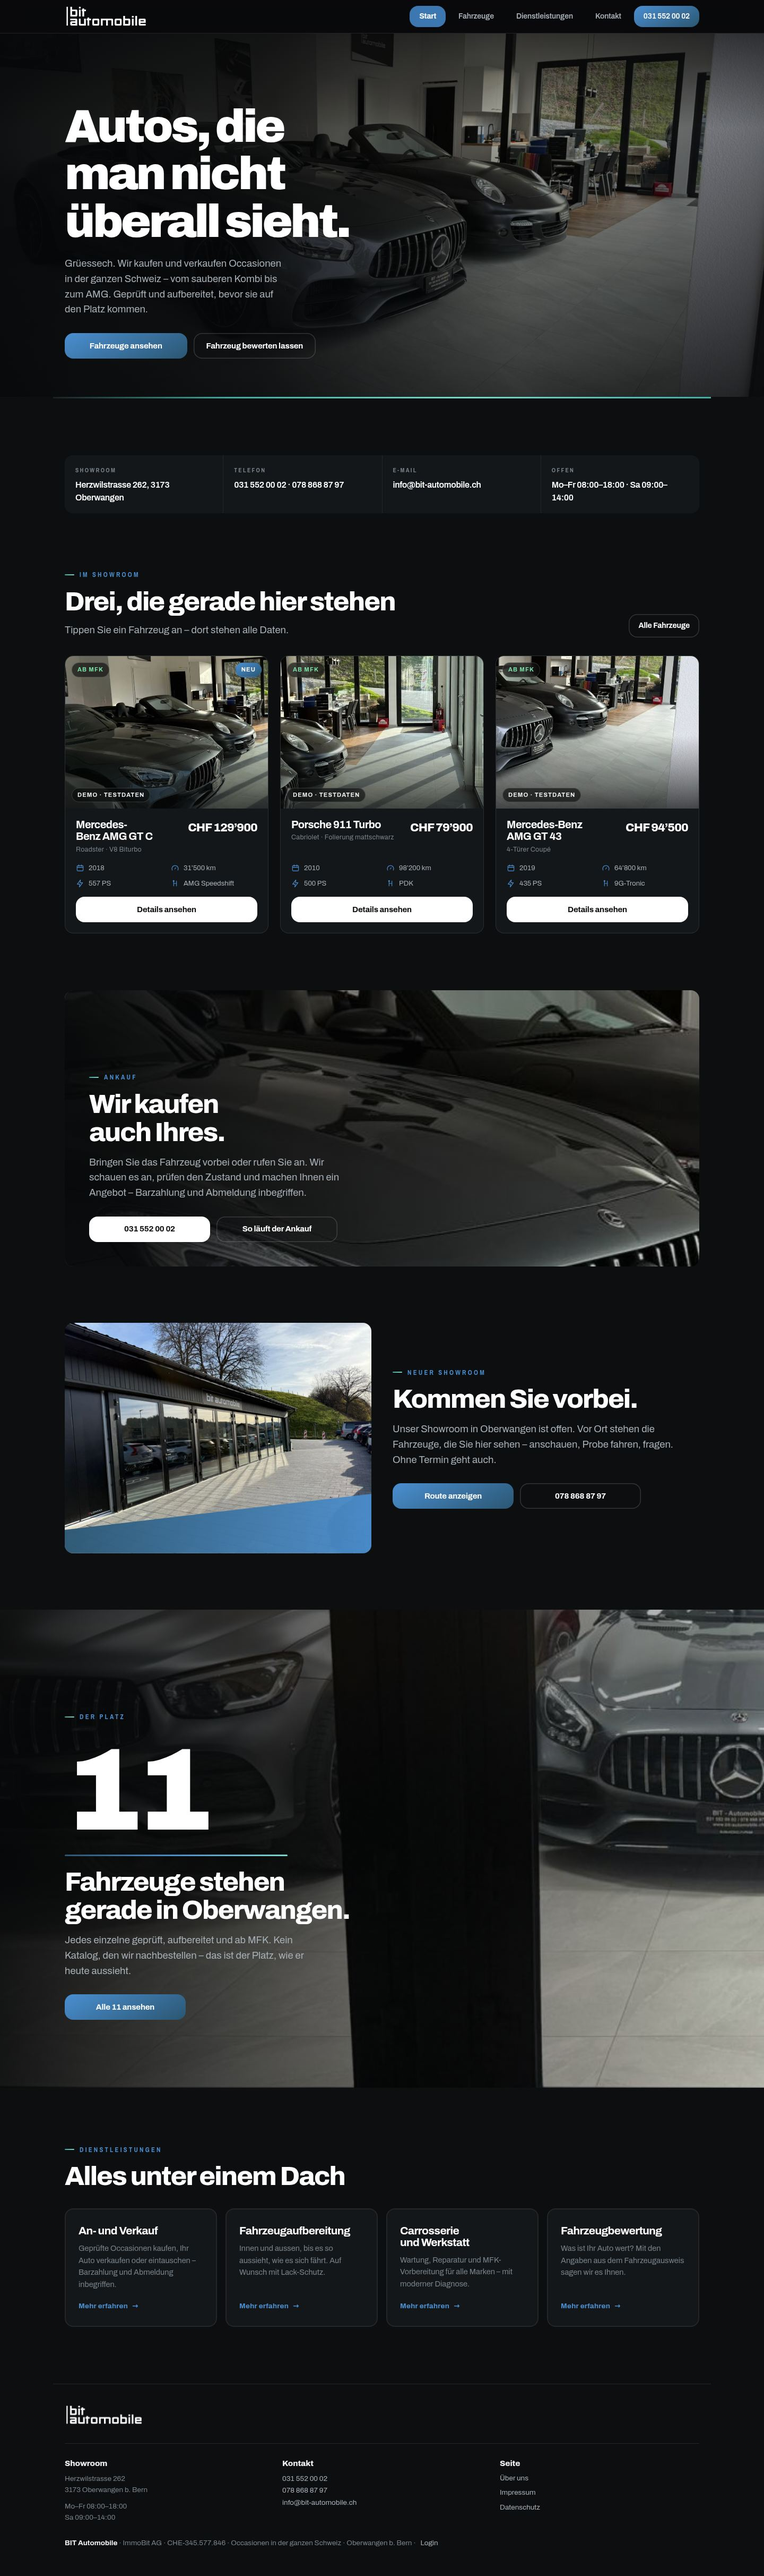
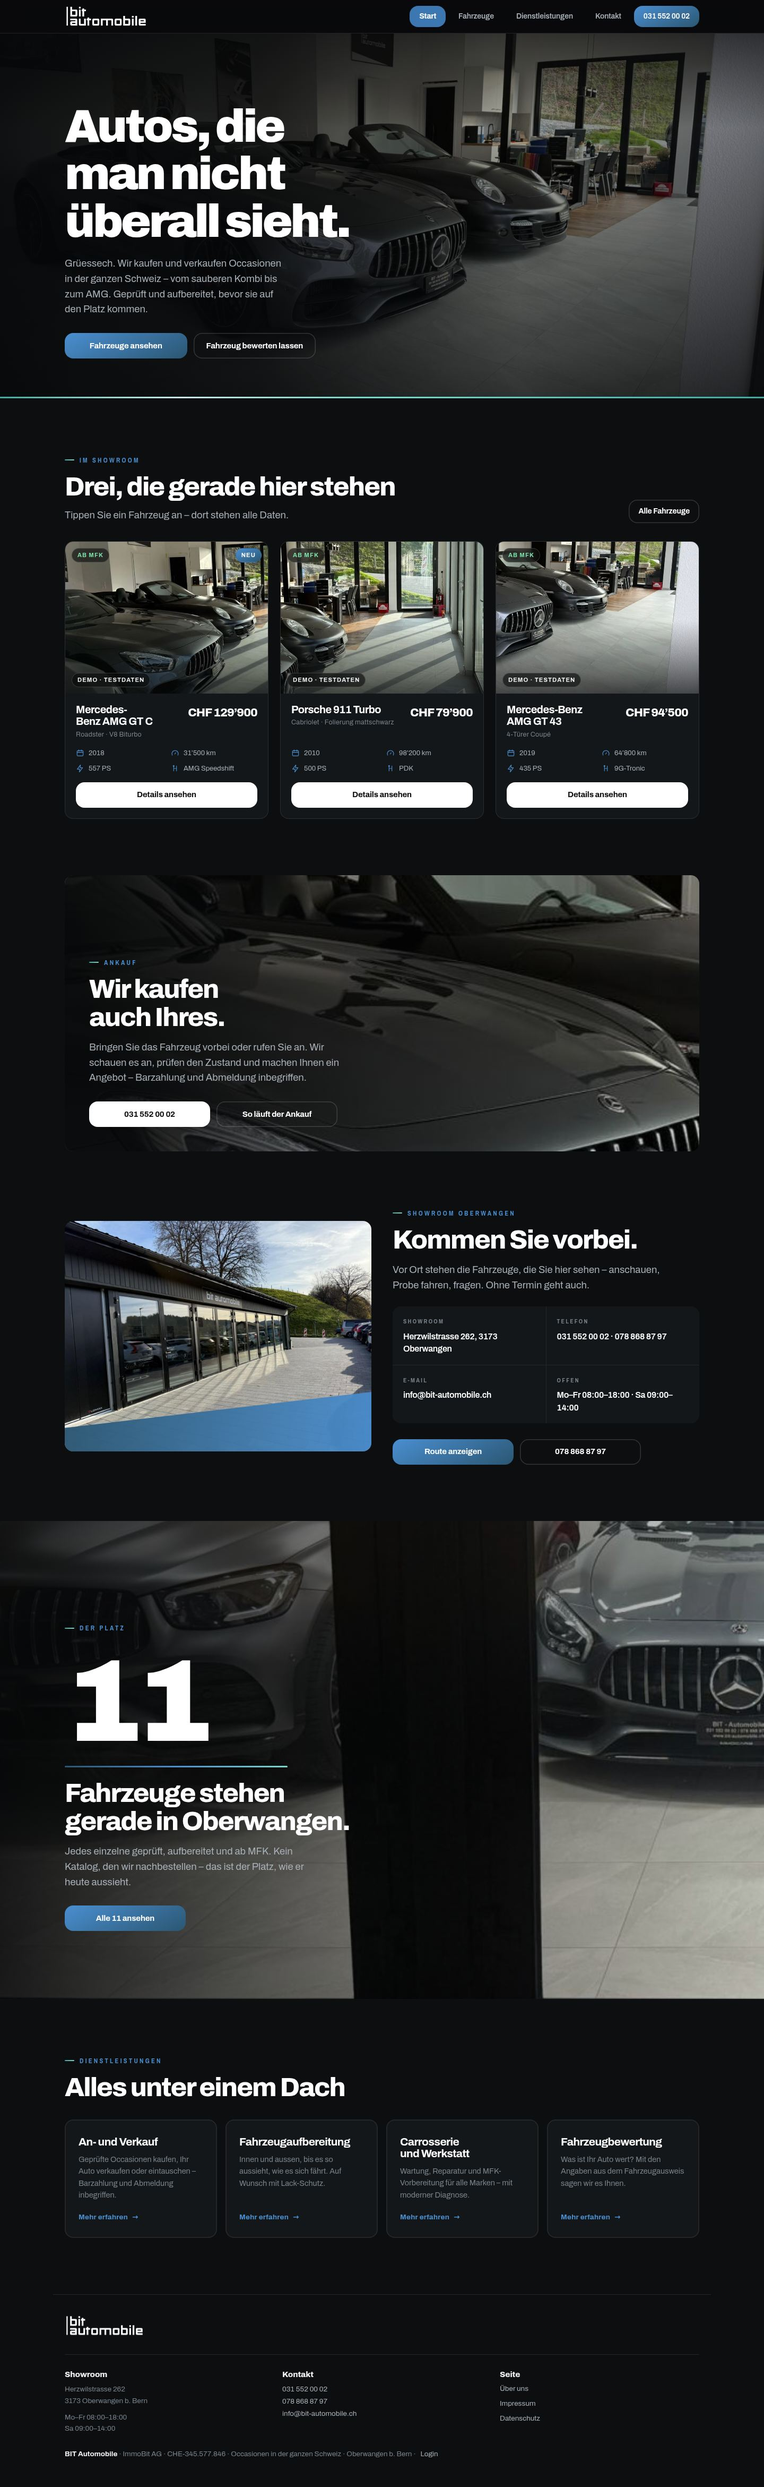
Startseite: kein Info-Balken, Linie randlos, Foto wischt weg, Maus-bit kleiner und blau
- Fakten (Adresse, Telefon, E-Mail, Zeiten) nicht mehr als Balken unter
  dem Titelbild, sondern einmal im Abschnitt «Kommen Sie vorbei»
- Aare-Linie unter dem Titelbild geht von Rand zu Rand, ohne Luecke
- «Der Platz»: oberes Foto wischt beim Scrollen schraeg weg, mit Kante
  (wie im Entwurf)
- Maus: «bit» 22px in BIT-Blau statt 46px weiss
- Browser-Test prueft das alles (202 Pruefungen)

Claude-Session: https://claude.ai/code/session_01FS9uVmt9oSwbhQpEkDp6nt

diff --git a/theme/bit-automobile/tests/e2e.js b/theme/bit-automobile/tests/e2e.js
@@ -200,12 +200,33 @@ const PAGES = [
   await ap.waitForTimeout(900);
   const notIn = await ap.evaluate(() => [...document.querySelectorAll('[data-rv]')].filter((e) => e.offsetParent && !e.classList.contains('is-in')).length);
   t('Animation: alle Blöcke nach dem Scrollen sichtbar', notIn === 0, notIn + ' nicht eingeblendet');
+  // Linie unter dem Titelbild: von Rand zu Rand
+  await ap.evaluate(() => window.scrollTo(0, 0));
+  const flowW = await ap.evaluate(() => { const f = document.querySelector('.flowwrap .bit-flow'); return f ? [Math.round(f.getBoundingClientRect().left), Math.round(f.getBoundingClientRect().width), document.documentElement.clientWidth] : null; });
+  t('Linie: geht über die ganze Breite', !!flowW && flowW[0] === 0 && flowW[1] === flowW[2], JSON.stringify(flowW));
+  // Kein Info-Balken direkt unter dem Titelbild; Adresse/Telefon/Zeiten stehen beim Showroom
+  t('Start: kein Balken unter dem Titelbild', await ap.evaluate(() => !document.querySelector('.hero + .flowwrap + .sec .bit-facts')));
+  t('Start: Adresse/Telefon/Zeiten beim Showroom', (await ap.locator('.split .visit-facts .bit-facts').count()) === 1);
+  t('Start: nur einmal «Showroom»-Fakten', (await ap.locator('main .bit-facts').count()) === 1);
+  // Der Platz: oberes Foto wischt beim Scrollen weg
+  const wipe = await ap.evaluate(async () => {
+    const sec = document.querySelector('.platz'); const top = sec.getBoundingClientRect().top + window.scrollY;
+    const span = sec.offsetHeight - window.innerHeight;
+    window.scrollTo(0, top + span * 0.35); await new Promise((r) => setTimeout(r, 300));
+    const w = document.querySelector('[data-wipe]'); const e = document.querySelector('[data-edge]');
+    return { clip: w.style.clipPath, edge: getComputedStyle(e).opacity };
+  });
+  t('Der Platz: Foto wischt beim Scrollen weg', /polygon/.test(wipe.clip) && !/100% 100%, 0(px)? 100%/.test(wipe.clip), wipe.clip);
+  await ap.waitForTimeout(300);
+  await ap.screenshot({ path: path.join(OUT, '28-der-platz-foto-wischt.jpg'), type: 'jpeg', quality: 80 });
   await ap.evaluate(() => window.scrollTo(0, 0));
   await ap.waitForTimeout(400);
   for (let i = 0; i < 24; i++) { await ap.mouse.move(500 + i * 18, 300 + i * 6); await ap.waitForTimeout(16); }
   await ap.waitForTimeout(250);
-  const follow = await ap.evaluate(() => { const m = document.querySelector('.bit-follow'); return m ? { on: m.classList.contains('on'), t: m.style.transform, src: m.src } : null; });
-  t('Maus: «bit» folgt dem Zeiger', !!follow && follow.on && /bit-mark\.png/.test(follow.src) && follow.t.includes('translate3d'), JSON.stringify(follow));
+  const follow = await ap.evaluate(() => { const m = document.querySelector('.bit-follow'); if (!m) return null; const cs = getComputedStyle(m); return { on: m.classList.contains('on'), t: m.style.transform, mark: m.style.getPropertyValue('--mark'), w: Math.round(m.getBoundingClientRect().width), bg: cs.backgroundColor }; });
+  t('Maus: «bit» folgt dem Zeiger', !!follow && follow.on && /bit-mark\.png/.test(follow.mark) && follow.t.includes('translate3d'), JSON.stringify(follow));
+  t('Maus: «bit» kleiner als der Zeiger (≤ 24px)', !!follow && follow.w > 0 && follow.w <= 24, follow && follow.w + 'px');
+  t('Maus: «bit» in BIT-Blau', !!follow && follow.bg === 'rgb(74, 143, 209)', follow && follow.bg);
   await ap.screenshot({ path: path.join(OUT, '25-animation-maus-bit.jpg'), type: 'jpeg', quality: 80, clip: { x: 300, y: 150, width: 900, height: 420 } });
   // Den Seitenwechsel fuer den Test anhalten (Listener nach dem der Seite), dann die Linie pruefen.
   await ap.evaluate(() => document.addEventListener('click', (e) => { if (e.target.closest('a')) e.preventDefault(); }));

diff --git a/theme/bit-automobile/assets/css/site.css b/theme/bit-automobile/assets/css/site.css
@@ -26,8 +26,13 @@
 .sec--top{padding-bottom:0}
 .sec--flat{padding-top:0}
 .intro{max-width:var(--maxw);margin-inline:auto;padding:clamp(46px,6vw,86px) var(--gut) 0}
-.flowwrap{max-width:var(--maxw);margin-inline:auto;padding-inline:var(--gut);margin-top:28px;overflow:hidden}
+/* Die Aare-Linie geht von Rand zu Rand, ohne Luecke; ein heller Schimmer fliesst darueber. */
+.flowwrap{margin-top:28px;overflow:hidden}
 .flowwrap--flush{margin-top:0}
+.flowwrap .bit-flow{width:100%;margin:0;border-radius:0;
+  background:linear-gradient(90deg,var(--aare),var(--aare-2) 50%,var(--aare))}
+.flowwrap .bit-flow i{background:linear-gradient(90deg,transparent 0%,rgba(255,255,255,.7) 8%,transparent 16%,
+  transparent 50%,rgba(255,255,255,.7) 58%,transparent 66%,transparent 100%)}
 .sec-head{display:flex;align-items:flex-end;justify-content:space-between;gap:22px;margin-bottom:34px;flex-wrap:wrap}
 .sec-head--stack{display:block;margin-bottom:34px}
 
@@ -68,6 +73,8 @@
 /* ---------- Bild + Text ---------- */
 .split{display:grid;grid-template-columns:repeat(auto-fit,minmax(min(320px,100%),1fr));gap:40px;align-items:center}
 .split--top{align-items:start}
+.visit-facts{margin-top:26px}
+@media (max-width:520px){.split .visit-facts .bit-facts{grid-template-columns:1fr}}
 .slant{position:relative;overflow:hidden;border-radius:var(--r)}
 .slant img{width:100%;display:block}
 .slant span{position:absolute;left:0;right:0;bottom:0;height:30%;pointer-events:none;
@@ -79,6 +86,11 @@
 .platz .stick{position:sticky;top:0;height:100vh;overflow:hidden}
 .platz img{position:absolute;inset:0;width:100%;height:100%;object-fit:cover}
 .platz .shade{position:absolute;inset:0;background:linear-gradient(90deg,rgba(6,7,8,.92) 0%,rgba(6,7,8,.6) 42%,rgba(6,7,8,.2) 100%)}
+/* Oberes Foto wischt beim Scrollen schraeg weg (wie im Entwurf), die Linie laeuft an der Kante mit */
+.platz .wipe{position:absolute;inset:0;clip-path:polygon(0 0,100% 0,100% 100%,0 100%);will-change:clip-path}
+.platz .wipe .shade{background:linear-gradient(90deg,rgba(6,7,8,.9) 0%,rgba(6,7,8,.55) 44%,rgba(6,7,8,.18) 100%)}
+.platz .edge{position:absolute;left:0;right:-40%;top:0;height:3px;transform-origin:left center;opacity:0;z-index:1;
+  background:linear-gradient(90deg,var(--blue-deep),var(--blue),var(--aare-2));transition:opacity 200ms}
 .platz .in{position:relative;z-index:2;height:100%;max-width:var(--maxw);margin-inline:auto;
   padding:86px var(--gut) 22px;display:flex;flex-direction:column;justify-content:center}
 .platz .count{font-size:clamp(88px,17vw,220px);font-weight:900;letter-spacing:-.06em;line-height:.88;
@@ -325,9 +337,11 @@
 .sitefoot .links a:hover,.sitefoot p a:hover,.prose a:hover,.legal .text a:hover,.back:hover,.legalline a:hover{background-size:100% 1px}
 .back{display:inline-flex;gap:6px}
 
-.bit-follow{position:fixed;left:0;top:0;z-index:90;width:46px;height:auto;pointer-events:none;opacity:0;
-  transition:opacity 280ms ease;will-change:transform;filter:drop-shadow(0 2px 6px rgba(0,0,0,.55))}
-.bit-follow.on{opacity:.92}
+/* Kleiner als der Zeiger (22px breit), in BIT-Blau; die Form kommt aus bit-mark.png als Maske */
+.bit-follow{position:fixed;left:0;top:0;z-index:90;width:22px;aspect-ratio:235/149;pointer-events:none;opacity:0;
+  background:var(--blue);-webkit-mask:var(--mark) center/contain no-repeat;mask:var(--mark) center/contain no-repeat;
+  transition:opacity 280ms ease;will-change:transform}
+.bit-follow.on{opacity:.95}
 @media (pointer:fine){
   html,body,a,button,label,.bit-chip,.bit-btn,.svc{cursor:url(../icons/cursor.svg) 3 1,auto}
 }

diff --git a/theme/bit-automobile/assets/js/site.js b/theme/bit-automobile/assets/js/site.js
@@ -14,6 +14,8 @@
   if (platz && !reduced) {
     var counter = platz.querySelector('[data-counter]');
     var meter = platz.querySelector('[data-meter]');
+    var wipe = platz.querySelector('[data-wipe]');
+    var edge = platz.querySelector('[data-edge]');
     var total = parseInt(platz.getAttribute('data-count'), 10) || 0;
     var ticking = false;
     var update = function () {
@@ -24,6 +26,18 @@
       var n = Math.min(total, Math.round(p * 3.2 * total));
       if (counter && counter.textContent !== String(n)) counter.textContent = String(n);
       if (meter) meter.style.setProperty('--p', total ? String(n / total) : '1');
+      /* Oberes Foto wischt schraeg weg: rechts schneller als links (Werte aus dem Entwurf) */
+      var a = Math.max(0, 100 - p * 165);
+      var b = Math.max(0, 100 - p * 95);
+      if (wipe) wipe.style.clipPath = 'polygon(0 0,100% 0,100% ' + a + '%,0 ' + b + '%)';
+      if (edge) {
+        var st = platz.querySelector('.stick');
+        var h = st.offsetHeight / 100;
+        var w = st.offsetWidth || 1;
+        var ang = Math.atan2((a - b) * h, w) * 180 / Math.PI;
+        edge.style.transform = 'translateY(' + (b * h).toFixed(1) + 'px) rotate(' + ang.toFixed(2) + 'deg)';
+        edge.style.opacity = p > 0.01 && p < 0.99 && b > 0 ? '0.9' : '0';
+      }
     };
     window.addEventListener('scroll', function () {
       if (!ticking) { ticking = true; window.requestAnimationFrame(update); }
@@ -162,14 +176,13 @@
 
   /* Maus: das «bit» aus dem Logo zieht hinter dem Zeiger her */
   if (anim && window.BIT && window.BIT.mark && window.matchMedia('(pointer: fine)').matches) {
-    var mark = document.createElement('img');
-    mark.src = window.BIT.mark;
-    mark.alt = '';
+    var mark = document.createElement('span');
     mark.className = 'bit-follow';
+    mark.style.setProperty('--mark', 'url("' + window.BIT.mark + '")');
     mark.setAttribute('aria-hidden', 'true');
     document.body.appendChild(mark);
     var tx = -200, ty = -200, x = -200, y = -200, last = 0, shown = false;
-    window.addEventListener('mousemove', function (e) { tx = e.clientX + 16; ty = e.clientY + 20; last = performance.now(); }, { passive: true });
+    window.addEventListener('mousemove', function (e) { tx = e.clientX + 14; ty = e.clientY + 18; last = performance.now(); }, { passive: true });
     document.addEventListener('mouseleave', function () { last = 0; });
     var loop = function () {
       x += (tx - x) * 0.085;

diff --git a/theme/bit-automobile/front-page.php b/theme/bit-automobile/front-page.php
@@ -1,7 +1,8 @@
 <?php
 /**
- * Start — wie im Entwurf: Hero, Fakten, drei Fahrzeuge, Ankauf,
- * Showroom, Der Platz (Zaehler), Dienstleistungen.
+ * Start — wie im Entwurf: Hero, drei Fahrzeuge, Ankauf, Showroom
+ * (mit Adresse, Telefon, Zeiten), Der Platz (Zaehler, Foto wischt weg),
+ * Dienstleistungen.
  * Jedes Foto kommt auf dieser Seite nur einmal vor.
  */
 if ( ! defined( 'ABSPATH' ) ) {
@@ -29,10 +30,6 @@ $tel2  = bit_tel( bit_info( 'phone2' ) );
 </section>
 
 <?php bit_flow( true ); ?>
-
-<section class="sec sec--top">
-	<?php bit_facts(); ?>
-</section>
 
 <?php if ( $cars ) : ?>
 <section class="sec">
@@ -73,9 +70,10 @@ $tel2  = bit_tel( bit_info( 'phone2' ) );
 			<span aria-hidden="true"></span>
 		</div>
 		<div>
-			<?php bit_kicker( 'Neuer Showroom' ); ?>
+			<?php bit_kicker( 'Showroom Oberwangen' ); ?>
 			<h2 class="t-sec">Kommen Sie vorbei.</h2>
-			<p class="lead">Unser Showroom in Oberwangen ist offen. Vor Ort stehen die Fahrzeuge, die Sie hier sehen – anschauen, Probe fahren, fragen. Ohne Termin geht auch.</p>
+			<p class="lead">Vor Ort stehen die Fahrzeuge, die Sie hier sehen – anschauen, Probe fahren, fragen. Ohne Termin geht auch.</p>
+			<div class="visit-facts"><?php bit_facts(); ?></div>
 			<div class="actions">
 				<a class="bit-btn bit-btn--blue" href="<?php echo esc_url( bit_info( 'maps_url' ) ); ?>" target="_blank" rel="noopener">Route anzeigen</a>
 				<a class="bit-btn bit-btn--ghost" href="tel:<?php echo esc_attr( $tel2 ); ?>"><?php echo esc_html( bit_info( 'phone2' ) ); ?></a>
@@ -87,8 +85,13 @@ $tel2  = bit_tel( bit_info( 'phone2' ) );
 <?php if ( $count ) : ?>
 <section class="platz" data-platz data-count="<?php echo esc_attr( $count ); ?>">
 	<div class="stick">
-		<img src="<?php echo esc_url( bit_asset( 'img/amg-detail.jpg' ) ); ?>" alt="" loading="lazy">
+		<img src="<?php echo esc_url( bit_asset( 'img/amg-wide.jpg' ) ); ?>" alt="" loading="lazy">
 		<div class="shade"></div>
+		<div class="wipe" data-wipe>
+			<img src="<?php echo esc_url( bit_asset( 'img/amg-detail.jpg' ) ); ?>" alt="" loading="lazy">
+			<div class="shade"></div>
+		</div>
+		<div class="edge" data-edge aria-hidden="true"></div>
 		<div class="in">
 			<?php bit_kicker( 'Der Platz' ); ?>
 			<p class="count" data-counter aria-hidden="true"><?php echo esc_html( $count ); ?></p>

diff --git a/theme/bit-automobile/README.md b/theme/bit-automobile/README.md
@@ -9,7 +9,7 @@ blaue Knöpfe, die Aare-Linie unter jedem Seitenkopf.
 
 | Adresse | Vorlage | Inhalt |
 |---|---|---|
-| `/` | `front-page.php` | Hero, Fakten, 3 neueste Fahrzeuge, Ankauf, Showroom, «Der Platz» (echte Anzahl), Dienstleistungen — jedes Foto nur einmal |
+| `/` | `front-page.php` | Hero, 3 neueste Fahrzeuge, Ankauf, Showroom mit Adresse/Telefon/Zeiten, «Der Platz» (echte Anzahl, oberes Foto wischt beim Scrollen weg), Dienstleistungen — jedes Foto nur einmal |
 | `/fahrzeuge/` | `archive-fahrzeug.php` | Alle Fahrzeuge, Sofort-Suche, Marken-Chips, Regler Preis/Kilometer/Jahrgang |
 | `/fahrzeuge/<name>/` | `single-fahrzeug.php` | Galerie, Preis, Anruf-Kasten, Daten, Beschreibung, 3 ähnliche (kein Leasing — BIT bietet keins an) |
 | `/marke/<marke>/` | `taxonomy-marke.php` | Wie `/fahrzeuge/`, nur eine Marke |
@@ -38,10 +38,11 @@ Platz die Bilder belegen.
 
 Klein und überall gleich (`assets/css/site.css`, Abschnitt «Bewegung»; `assets/js/site.js`):
 Seitenwechsel blendet weich über (View Transitions, Kopf bleibt stehen) · beim Klick läuft
-eine Aare-Linie oben über die Seite · Blöcke steigen beim Scrollen 14px auf, gestaffelt ·
+eine Aare-Linie oben über die Seite · die Aare-Linie unter dem Titelbild geht von Rand zu Rand, ein heller Schimmer fliesst darüber · Blöcke steigen beim Scrollen 14px auf, gestaffelt ·
 vor jedem Kicker zeichnet sich eine kurze Linie · Unterstrich wächst bei Links ·
-«Der Platz»: Zahl und Linie zählen mit · Maus: das «bit» aus dem Logo zieht hinter dem
-Zeiger her, dazu der weisse Pfeil aus dem Entwurf. Mit «Bewegung reduzieren» ist alles aus.
+«Der Platz»: Zahl und Linie zählen mit, das obere Foto wischt schräg weg (wie im Entwurf) ·
+Maus: das «bit» aus dem Logo (22px, BIT-Blau, kleiner als der Zeiger) zieht hinter dem Zeiger
+her, dazu der weisse Pfeil aus dem Entwurf. Mit «Bewegung reduzieren» ist alles aus.
 
 ## Symmetrie
 
@@ -100,7 +101,7 @@ wp bit as24 sync [--dry-run]               # echter Abgleich / Probelauf (brauch
 
 ```
 wp eval-file wp-content/themes/bit-automobile/tests/run-tests.php     # 45 Tests: CHF, Telefon, MWST, AS24-Zuordnung, Import, Probelauf, Foto-Verkleinerung
-BASE=http://localhost:8080 BIT_USER=… BIT_PASS=… node tests/e2e.js     # 188 Prüfungen im Browser + Bildschirmfotos
+BASE=http://localhost:8080 BIT_USER=… BIT_PASS=… node tests/e2e.js     # 195 Prüfungen im Browser + Bildschirmfotos
 ADMIN_USER=… ADMIN_PASS=… AS24_MOCK=1 node tests/e2e.js                # + 7 Prüfungen Probelauf im Admin (mit Attrappe)
 ```
 
